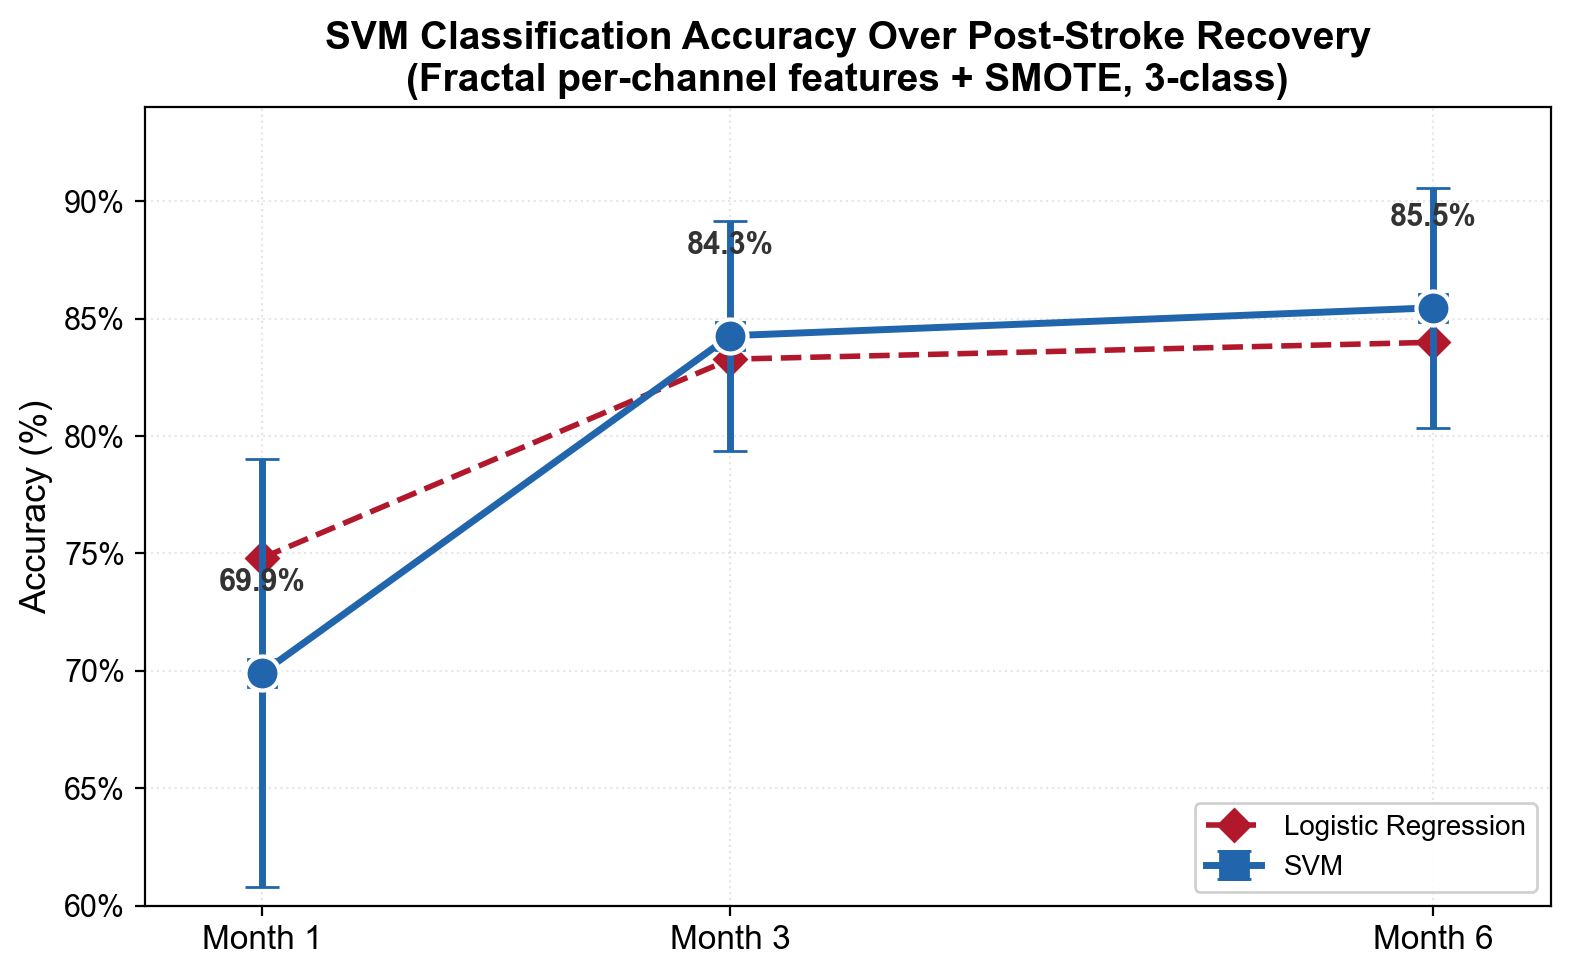
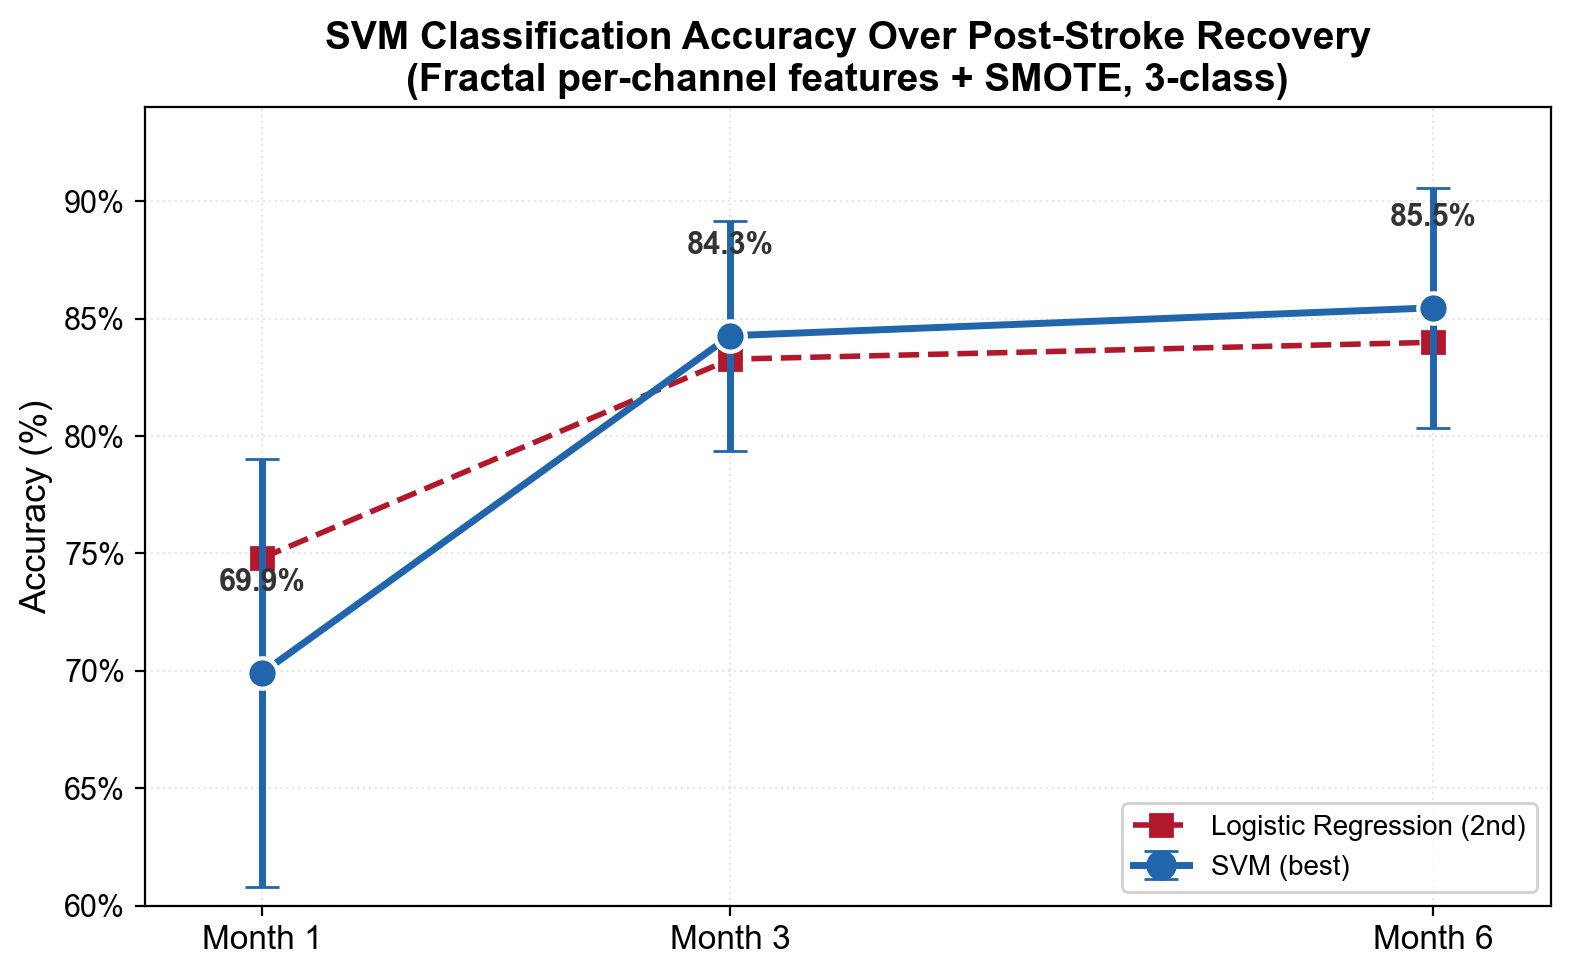
SVM con marcador circular y leyenda con ranking: SVM (best), LogReg (2nd)

diff --git a/scripts/plot_tuned_results.py b/scripts/plot_tuned_results.py
@@ -76,13 +76,13 @@ def plot_svm_evolution():
     logreg_acc = [LOGREG_ACC[m] for m in MONTH_LABELS]
 
     ax.errorbar(months_idx, svm_acc, yerr=svm_std,
-                marker="s", markersize=10, linewidth=2.5, capsize=6,
-                color="#2166AC", label="SVM", zorder=3)
+                marker="o", markersize=10, linewidth=2.5, capsize=6,
+                color="#2166AC", label="SVM (best)", zorder=3)
     ax.plot(months_idx, logreg_acc,
-            marker="D", markersize=8, linewidth=2, linestyle="--",
-            color="#B2182B", label="Logistic Regression", zorder=2)
-    ax.scatter(months_idx, svm_acc, s=150, c="#2166AC", edgecolors="white",
-               linewidths=1.5, zorder=4)
+            marker="s", markersize=8, linewidth=2, linestyle="--",
+            color="#B2182B", label="Logistic Regression (2nd)", zorder=2)
+    ax.scatter(months_idx, svm_acc, s=120, c="#2166AC", edgecolors="white",
+               linewidths=1.5, zorder=4, clip_on=False)
 
     for i, (m, v) in enumerate(zip(months_idx, svm_acc)):
         ax.annotate(f"{v:.1f}%", (m, v + 3.5), ha="center", fontsize=11,